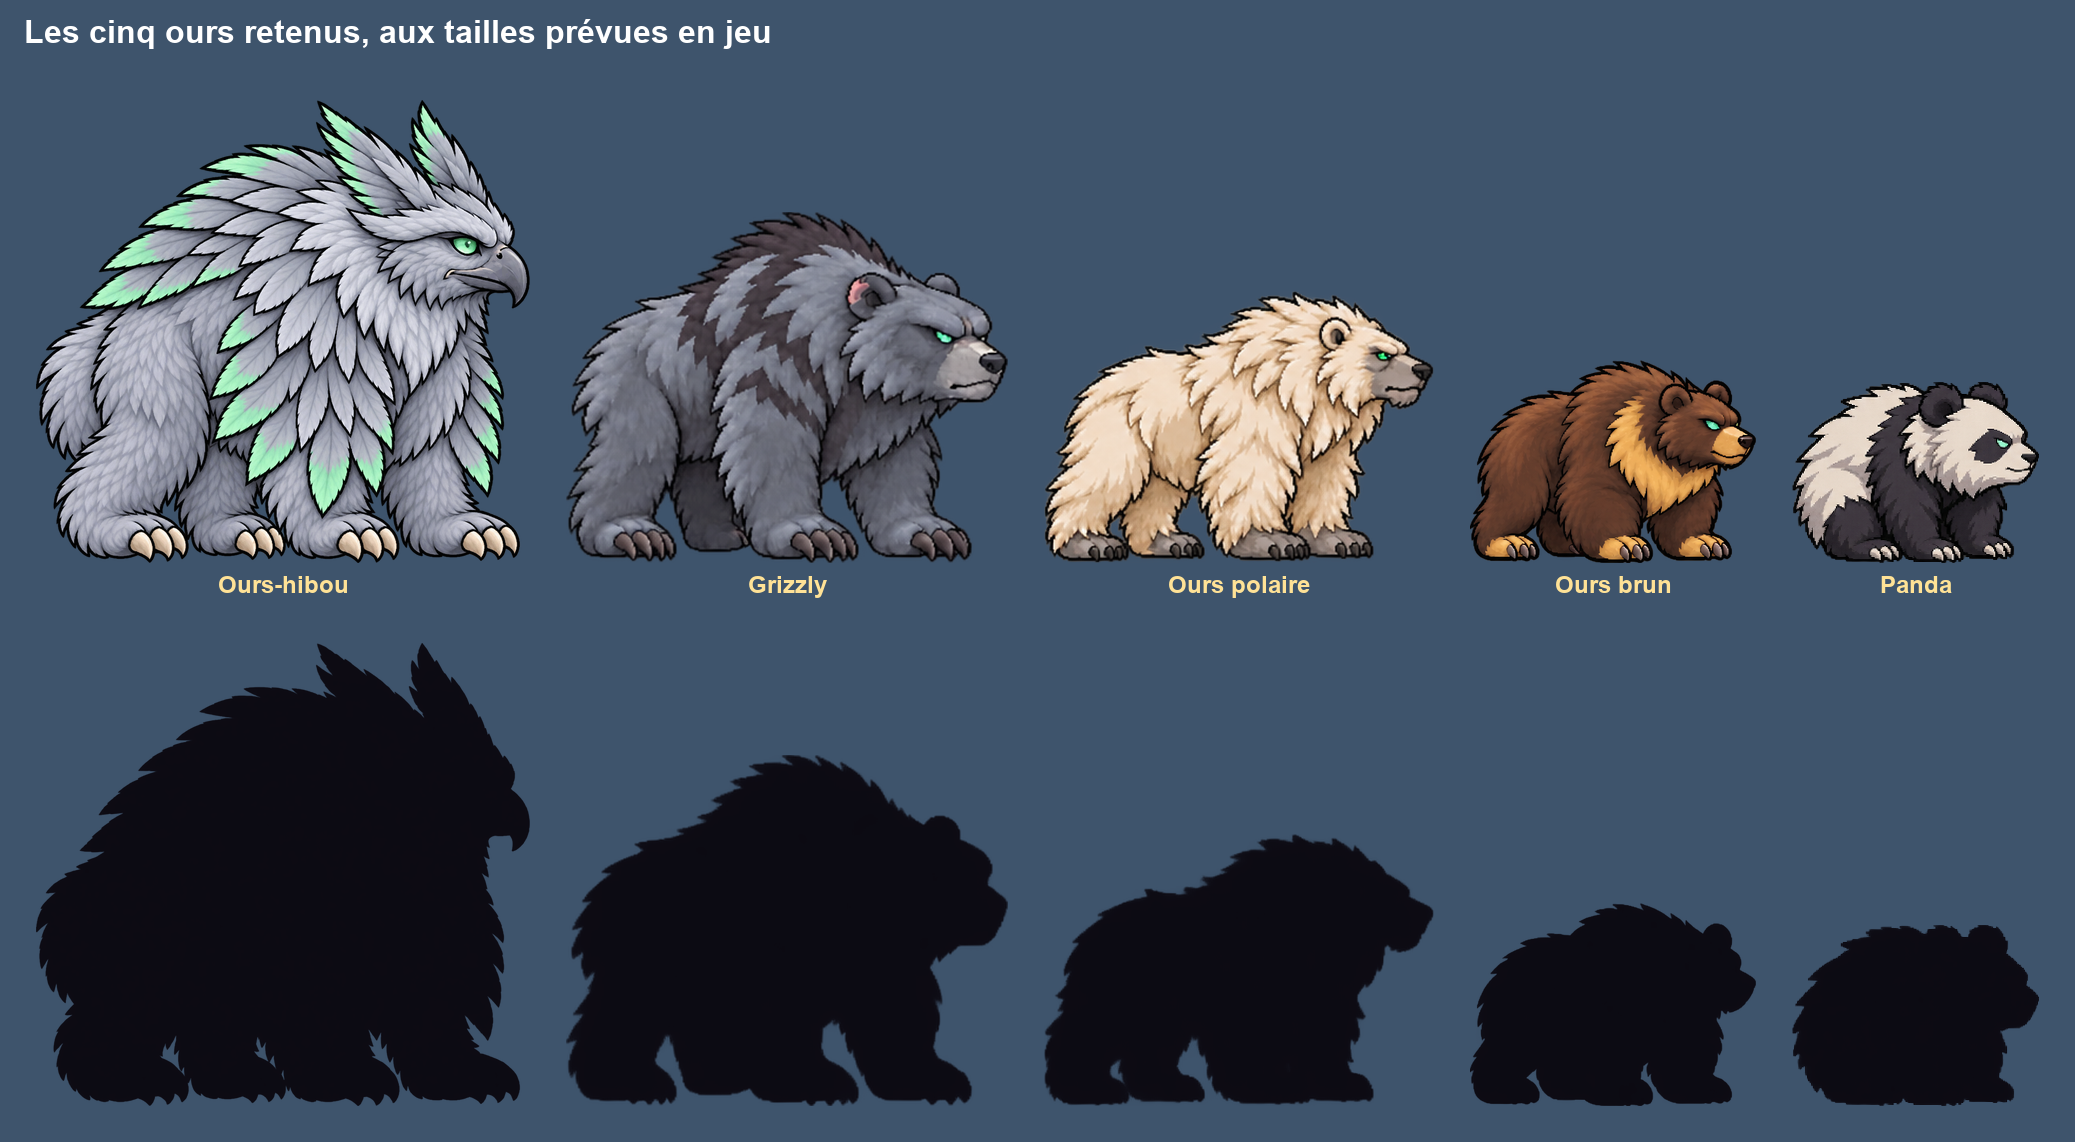
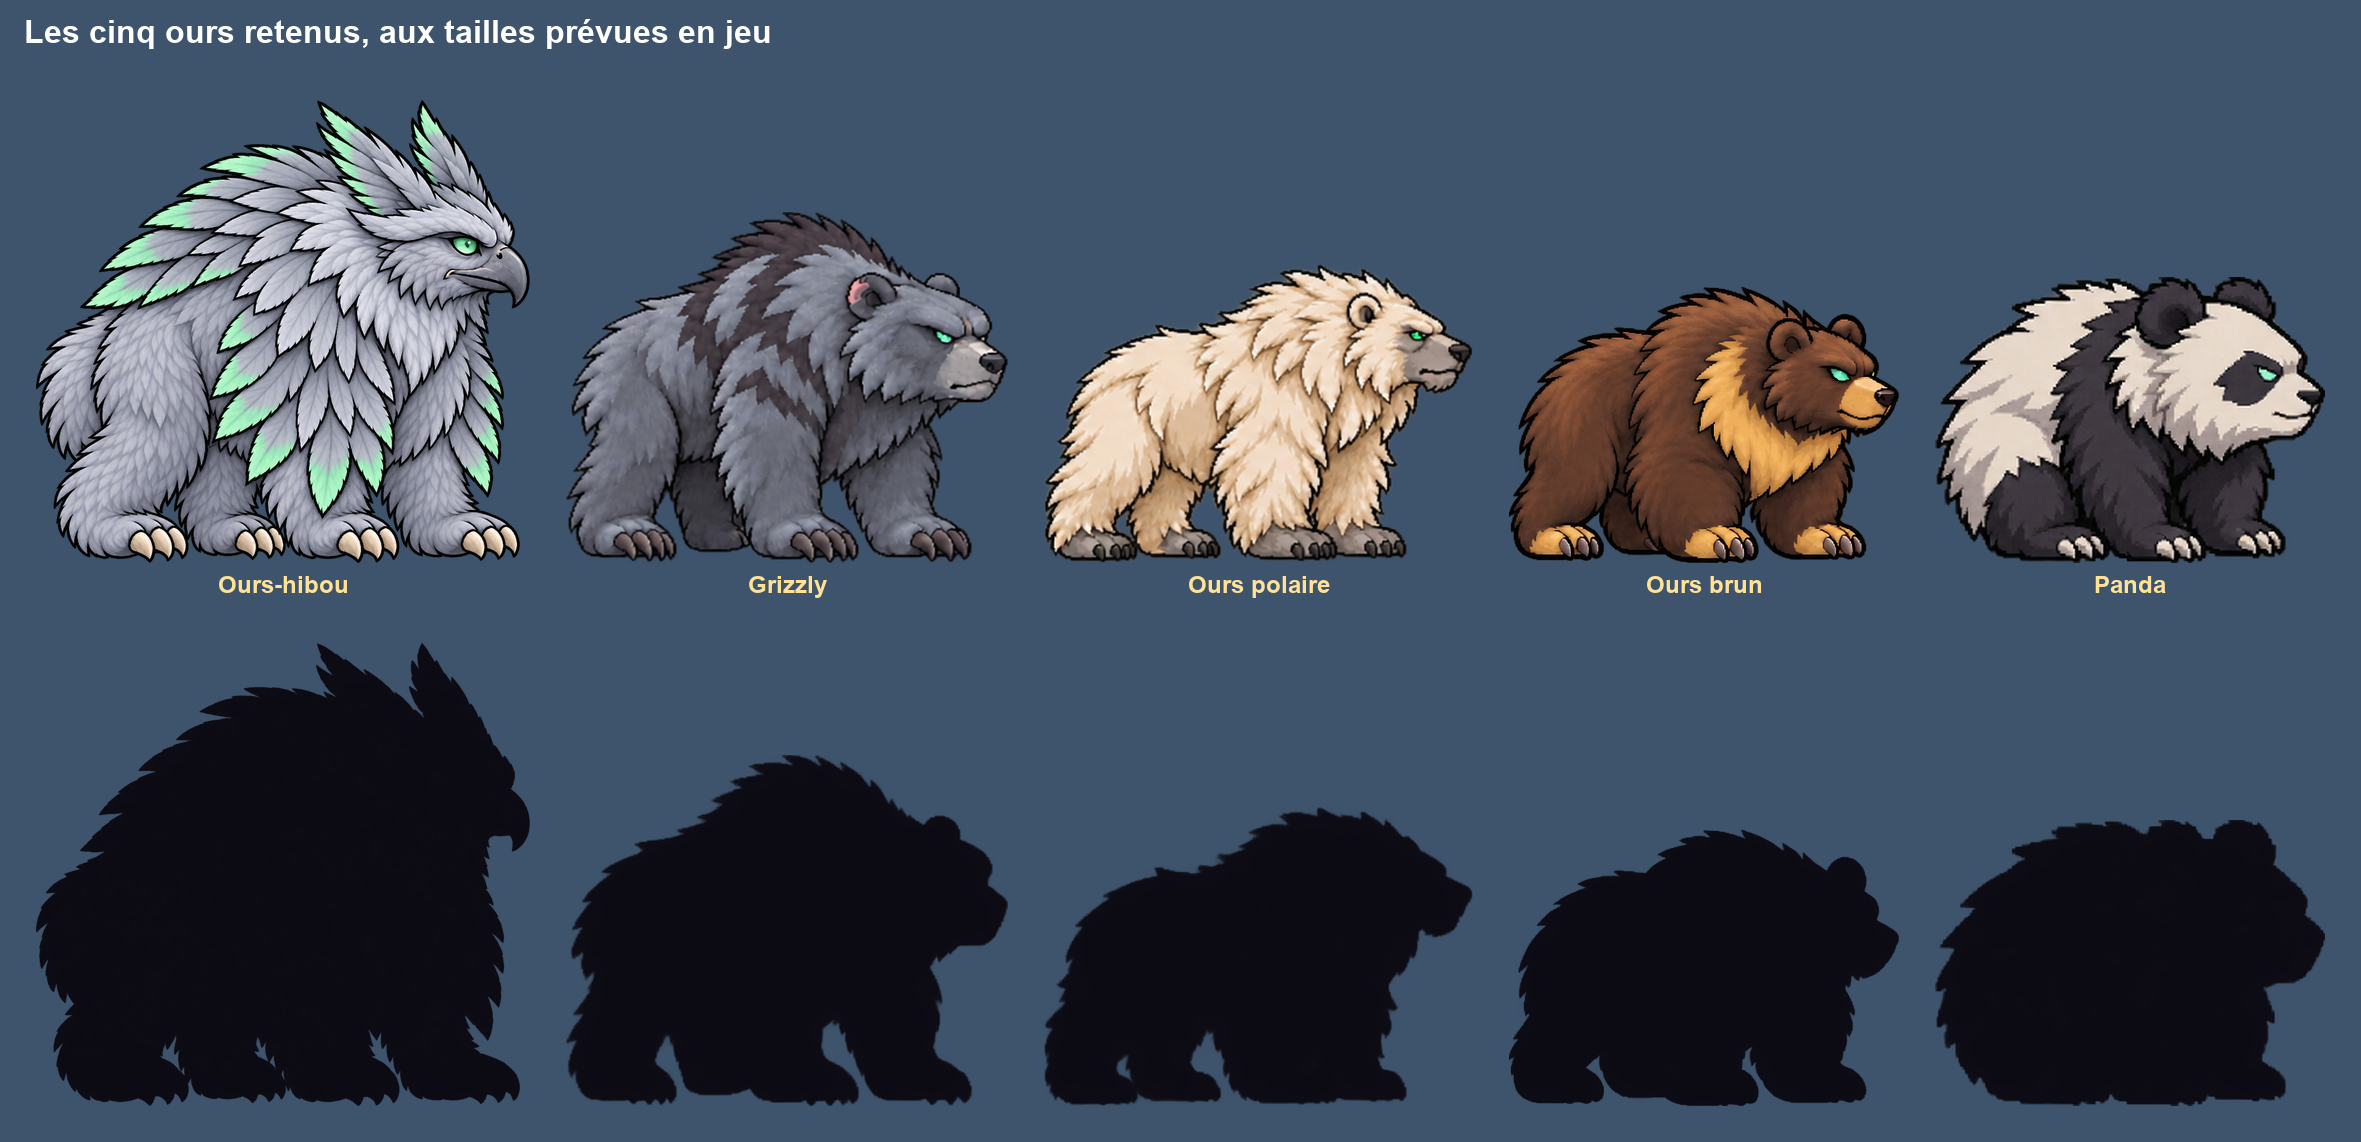
Ours : tailles a l'ecran fixees (ours-hibou 190, grizzly 170, ours polaire 165, ours brun et panda 150)

diff --git a/docs/production/PROMPT_CODEX_14.md b/docs/production/PROMPT_CODEX_14.md
@@ -73,10 +73,16 @@ Toutes les feuilles sont jouées à **0,4** (`scale` du manifeste). Agarica debo
 
 | Id | Taille de la pose (px source) | À l'écran | Repère |
 |---|---|---|---|
-| `grizzly` | environ 340 de long, 270 de haut | ≈ 170 x 135 (échelle à passer à 0,5) | le plus imposant de la famille |
-| `ours_hibou` | environ 340 de long, 290 de haut (bond : jusqu'à 360 de long) | ≈ 190 x 160 (échelle à passer à 0,55) | le plus imposant de tous |
-| `panda` | assis : environ 230 de large, 220 de haut | ≈ 92 x 88 | rond, plus petit que le grizzly |
-| `ours_polaire` | à quatre pattes : environ 400 x 250 ; dressé : environ 260 x 400 | ≈ 160 x 100, dressé ≈ 104 x 160 | le plus grand des quatre, comme l'ours actuel (≈ 177 x 103) |
+| `grizzly` | il remplit sa case : environ 340 de long | ≈ 170 de long (régler `scale` à l'intégration) | un colosse, juste derrière l'ours-hibou |
+| `ours_hibou` | il remplit sa case : environ 340 de long (bond : jusqu'à 360) | ≈ 190 de long (régler `scale` à l'intégration) | le plus imposant de tous |
+| `panda` | assis : environ 230 de large, 220 de haut | ≈ 150 de long à quatre pattes | même taille que l'ours brun |
+| `ours_polaire` | il remplit sa case : environ 340 de long ; dressé : environ 260 x 400 | ≈ 165 de long | presque la taille du grizzly |
+| ours brun (`ours_fracas`) | environ 330 de long, 230 de haut | ≈ 150 de long | même taille que le panda |
+
+**Tailles à l'écran fixées par l'utilisateur le 2026-11-13** (longueur à quatre pattes) : ours-hibou 190 px,
+grizzly 170, ours polaire 165 (« quasi la taille du grizzly »), ours brun 150 et panda 150 (« la taille de
+l'ours polaire » du premier montage). Elles se règlent à l'affichage (`scale` du manifeste), pas dans le dessin :
+dans chaque feuille, l'animal remplit simplement sa case. Montage : `controles/lot_14/famille_finale.png`.
 | icônes | médaillon dans une cellule de 724 | 72 (menu), 40 (HUD) | mêmes médaillons de bois et de lierre que `assets/items/skill_icone/ours.png` |
 
 **Rangée `transform`** : la frame 1 est **Agarica debout, neutre**, à sa taille normale (environ 250 px
